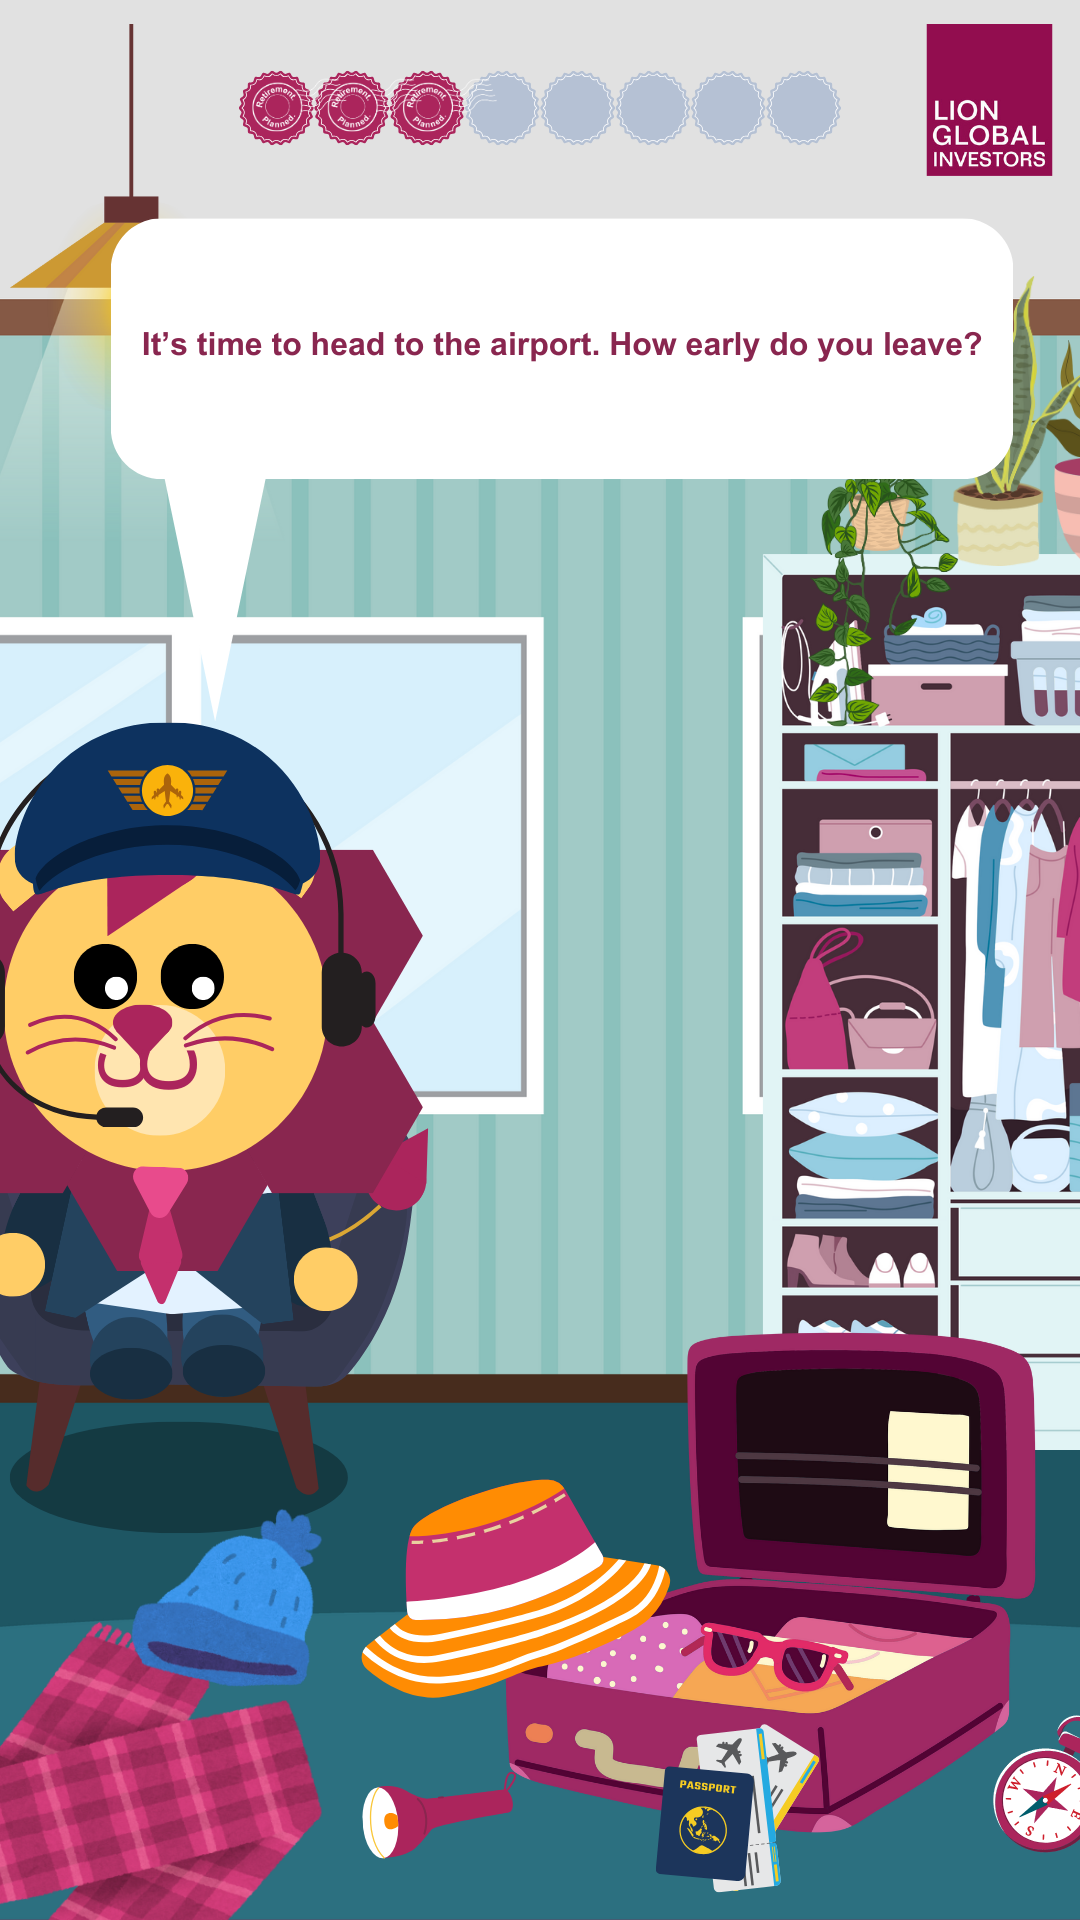
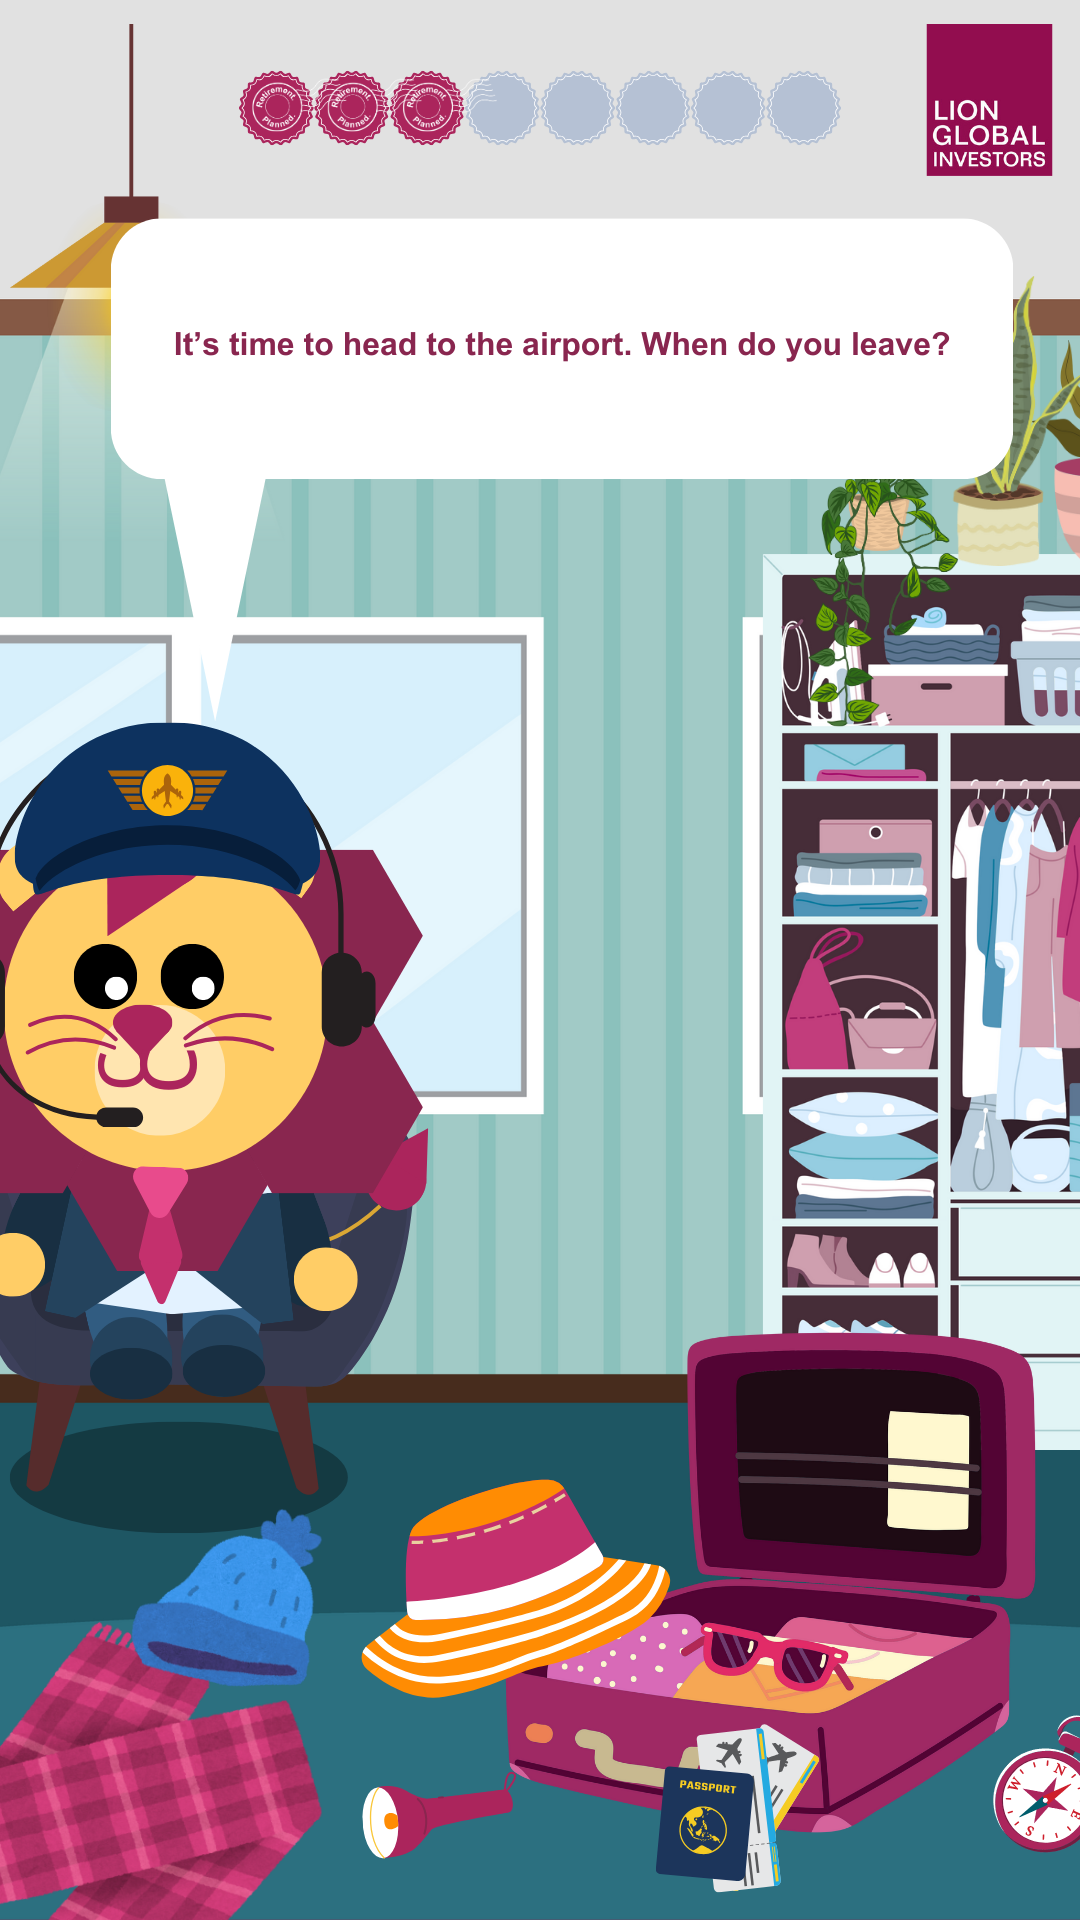
updated quiz questions

Changed region(s): [[0.1222, 0.1562, 0.9167, 0.1875]]

diff --git a/script.js b/script.js
@@ -15,7 +15,7 @@ class Quiz {
       },
       {
         image: `quiz-Q2.png`,
-        question: `Who is accompanying you to see the Northern Lights?`,
+        question: `Who is coming with you on your trip?`,
         answers: {
           Capital: `2 - 3 friends to split cost`,
           Legacy: `Bring the whole kampong`,
@@ -25,7 +25,7 @@ class Quiz {
       },
       {
         image: `quiz-Q3.png`,
-        question: `It's time to head to the airport. <br> How early do you leave?`,
+        question: `It's time to head to the airport. <br> When do you leave?`,
         answers: {
           Legacy: `Leave 3 hours early to go shopping/eating`,
           Capital: `Leave 3 hours early because kiasu`,
@@ -38,17 +38,17 @@ class Quiz {
         question: `While queuing to check in your luggage, someone tries to cut in front of you. <br> Do you:`,
         answers: {
           Capital: `Let them cut in front of you hoping that someone else will speak up`,
-          Legacy: `Ask them nicely to join the queue behind you`,
-          Wealth: `Speak loudly to get them to join the queue`,
+          Legacy: `Ask them to join the queue behind you`,
+          Wealth: `Attempt to block their way`,
           Income: `Let them cut in front of you to avoid creating a scene`,
         },
       },
       {
         image: `quiz-Q5.png`,
-        question: `At the check in counter, you're told that your flight is delayed. <br> What do you do first?`,
+        question: `You're told that your flight is delayed. <br> What do you do first?`,
         answers: {
           Income: `Pay extra to get onto the next available flight`,
-          Wealth: `Create a ruckus`,
+          Wealth: `Demand for the next available flight`,
           Capital: `Wait for the delayed flight`,
           Legacy: `Claim full compensation from insurance happily`,
         },

diff --git a/pilot.html b/pilot.html
@@ -16,13 +16,13 @@
     <div class="center-wrapper">
         <section class="uk-container uk-container-small">
             <div class="uk-card uk-card-default uk-card-body">
-                <img src="pic/start.png" alt="Cover" class="uk-width-1-1 cover-img">
+                <img src="pic/pilot.png" alt="Cover" class="uk-width-1-1 cover-img">
                 <div class="lets-begin-info">
                     <p class="lets-begin-desc uk-text-center">
                         <!-- This is your Captain speaking, let's visit the Holiday of your Lifetime! -->
                     </p>
-                        <a href="pilot.html" class="lets-begin-button-link">
-                            <button class="uk-button uk-button-primary lets-begin-button">Start</button>
+                        <a href="quiz.html" class="lets-begin-button-link">
+                            <button class="uk-button uk-button-primary lets-begin-button">Let's Fly!</button>
                         </a>
                 </div>
             </div>

diff --git a/style.css b/style.css
@@ -143,7 +143,6 @@
     /* aspect-ratio: 65/45; */
     object-fit: cover;
     object-position: center center;
-    image-rendering: auto;
 }
 
 .quiz-desc {
@@ -473,6 +472,15 @@
         top: 50px;
         font-size: 15px;
         width: 250px;
+    }
+}
+
+@media (hover:hover) {
+    .lets-begin-button:hover {
+        background-color: #c4306d;
+        color: #FFFFFF;
+        border: 3px solid #721d40;
+        transform: scale(1.05);
     }
 }
 
